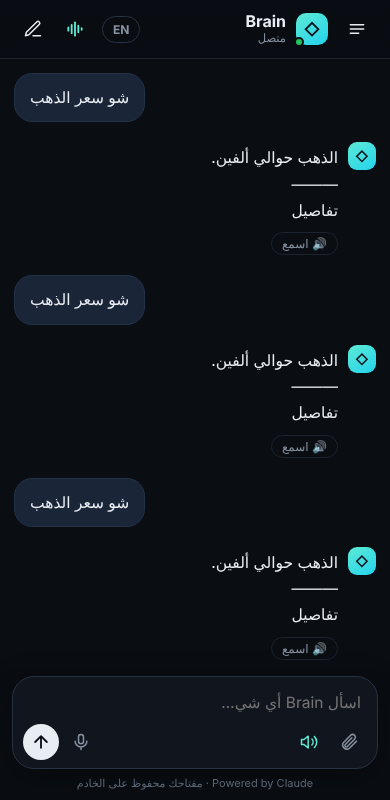
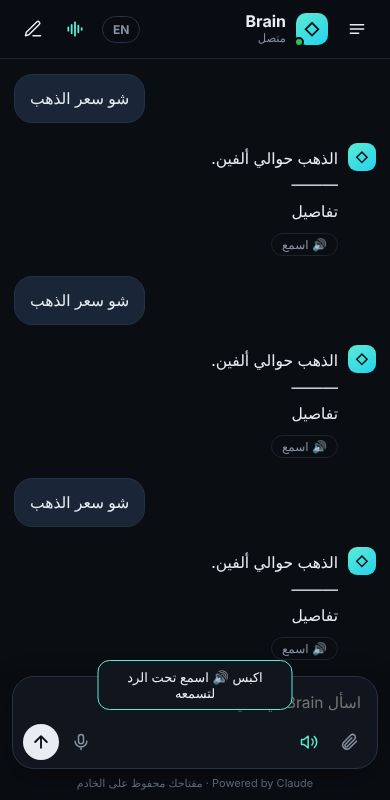
Brain voice: log which voice service answered; tell the user to tap Listen when the phone blocks autoplay
Claude-Session: https://claude.ai/code/session_01UF2v6pya7NMSn4HqyZL5EZ

diff --git a/brain-app/index.html b/brain-app/index.html
@@ -389,7 +389,7 @@ async function speakText(tx){stopSpeaking();var text=cleanSpeech(tx);if(!text)re
     var fb=await fetch('/api/voice',{method:'POST',headers:apiHeaders(),body:JSON.stringify({tts:text,full:true})}).then(function(r){return r.ok?r.blob():null;}).catch(function(){return null;});
     if(q.stop)return;
     if(fb){if(!player){player=new Audio();player.setAttribute('playsinline','');}var fu=URL.createObjectURL(fb);player.src=fu;
-      await new Promise(function(res){playDone=res;player.onended=res;player.onerror=res;var p=player.play();if(p&&p.catch)p.catch(res);});playDone=null;URL.revokeObjectURL(fu);if(speakQ===q)stopSpeaking();return;}
+      await new Promise(function(res){playDone=res;player.onended=res;player.onerror=res;var p=player.play();if(p&&p.catch)p.catch(function(){toast2(L?'Tap 🔊 Listen under the reply to hear it':'اكبس 🔊 اسمع تحت الرد لتسمعه');res();});});playDone=null;URL.revokeObjectURL(fu);if(speakQ===q)stopSpeaking();return;}
     srv.full=false;}
   var parts=chunks(text);var fetchPart=function(p){return fetch('/api/voice',{method:'POST',headers:apiHeaders(),body:JSON.stringify({tts:p})}).then(function(r){return r.ok?r.blob():null;}).catch(function(){return null;});};
   var next=fetchPart(parts[0]);

diff --git a/brain-app/api/voice.js b/brain-app/api/voice.js
@@ -120,7 +120,9 @@ export default async function handler(req) {
       // The whole answer in one natural take; the page falls back to short clips when this is not available.
       const all = speakable(body.tts, 1500);
       if (!all) return json({ error: "empty" }, 400);
-      const mp3 = (await speakFish(all)) || (await speakEleven(all));
+      const fish = await speakFish(all);
+      const mp3 = fish || (await speakEleven(all));
+      console.log("VOICE_TTS " + (mp3 ? "ok " + (fish ? "fish" : "eleven") + " " + mp3.byteLength + " bytes" : "none") + " for " + all.length + " chars");
       if (!mp3) return json({ error: "no_full" }, 503);
       return new Response(mp3, { headers: { "content-type": "audio/mpeg", "cache-control": "no-store", "x-tts": "full" } });
     }
